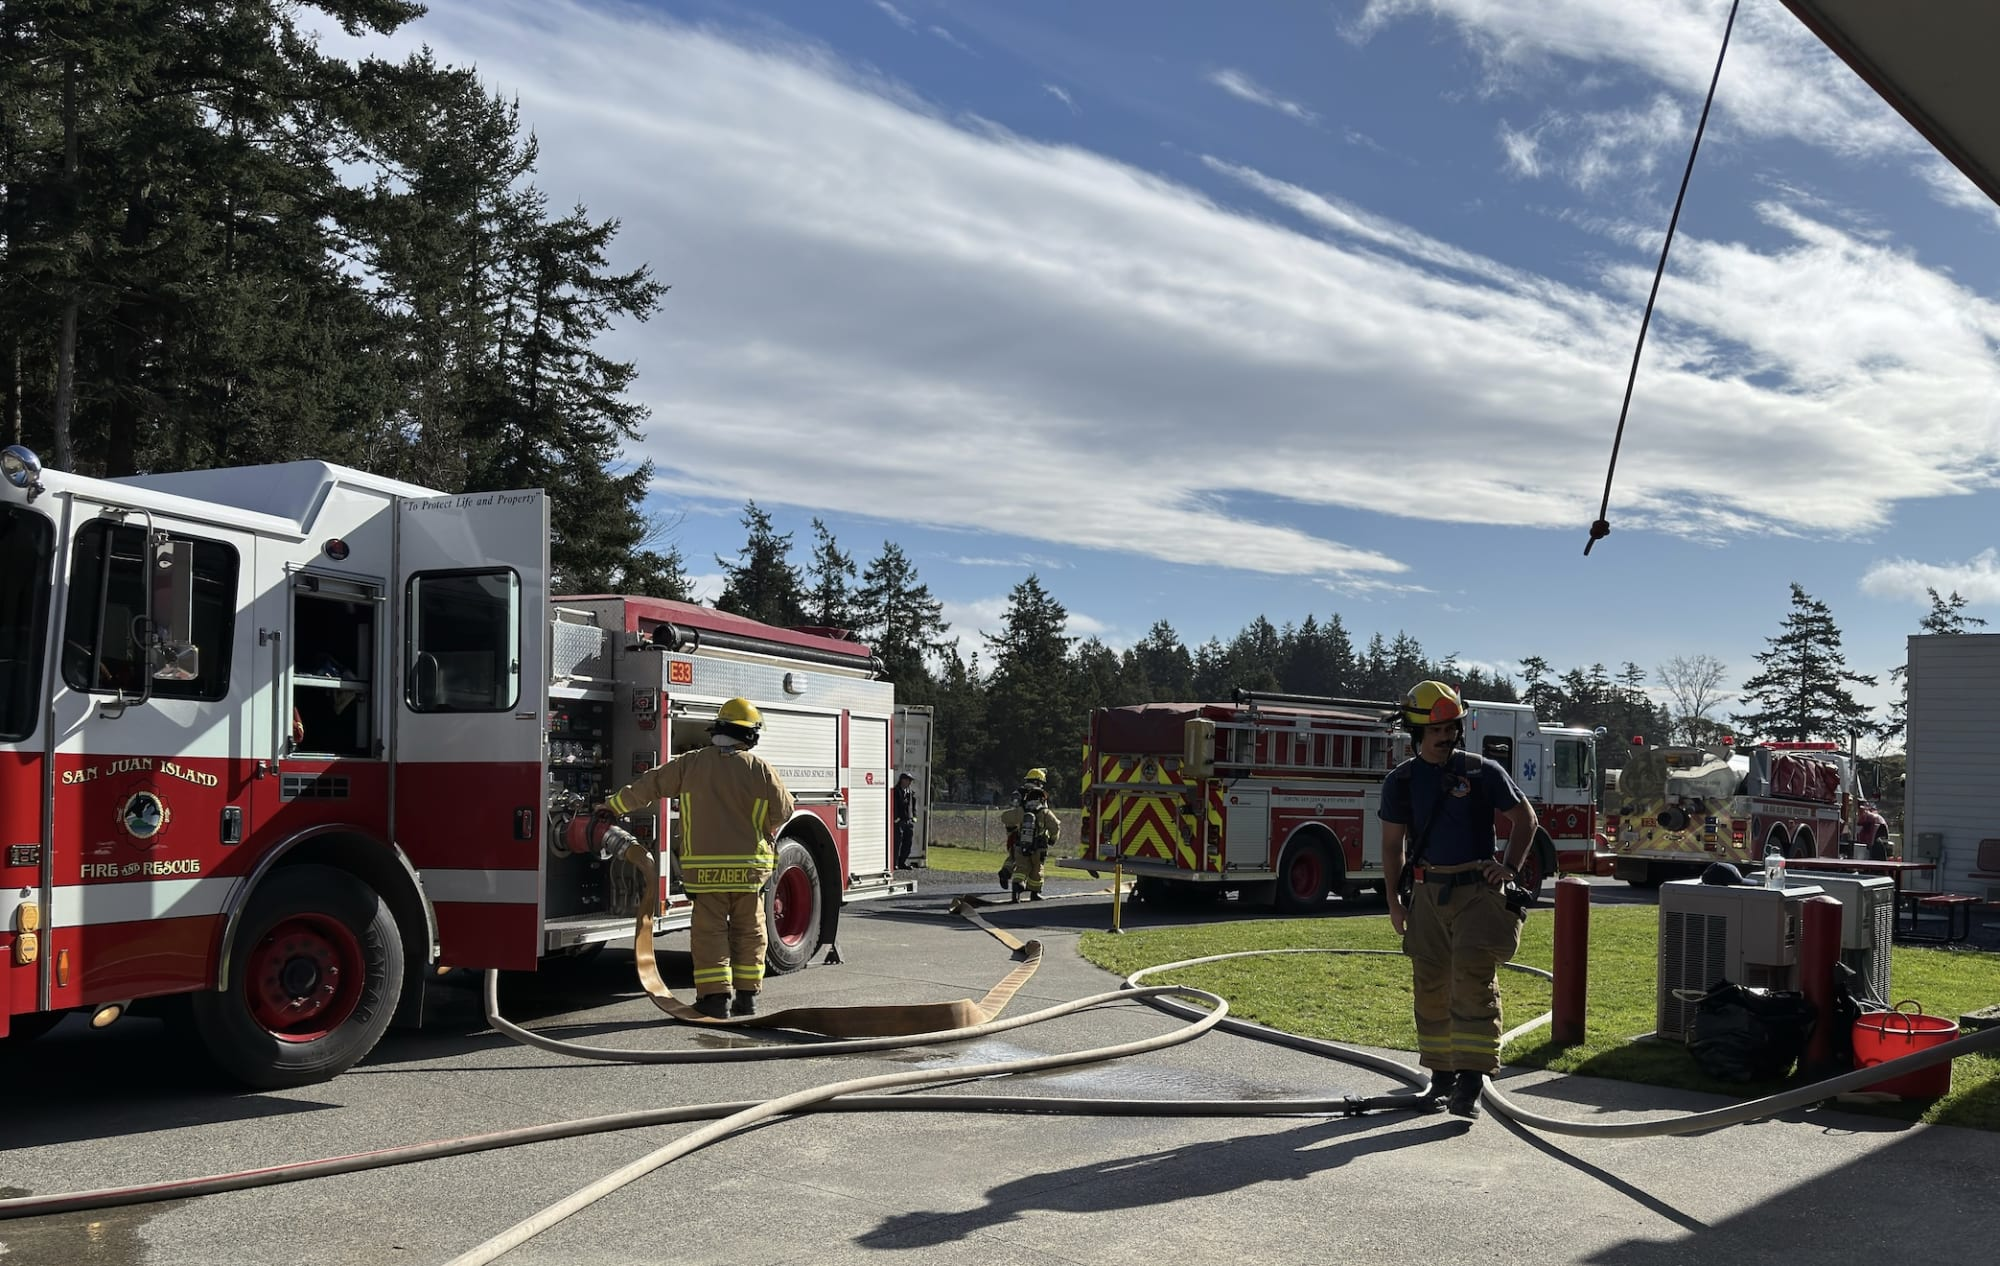
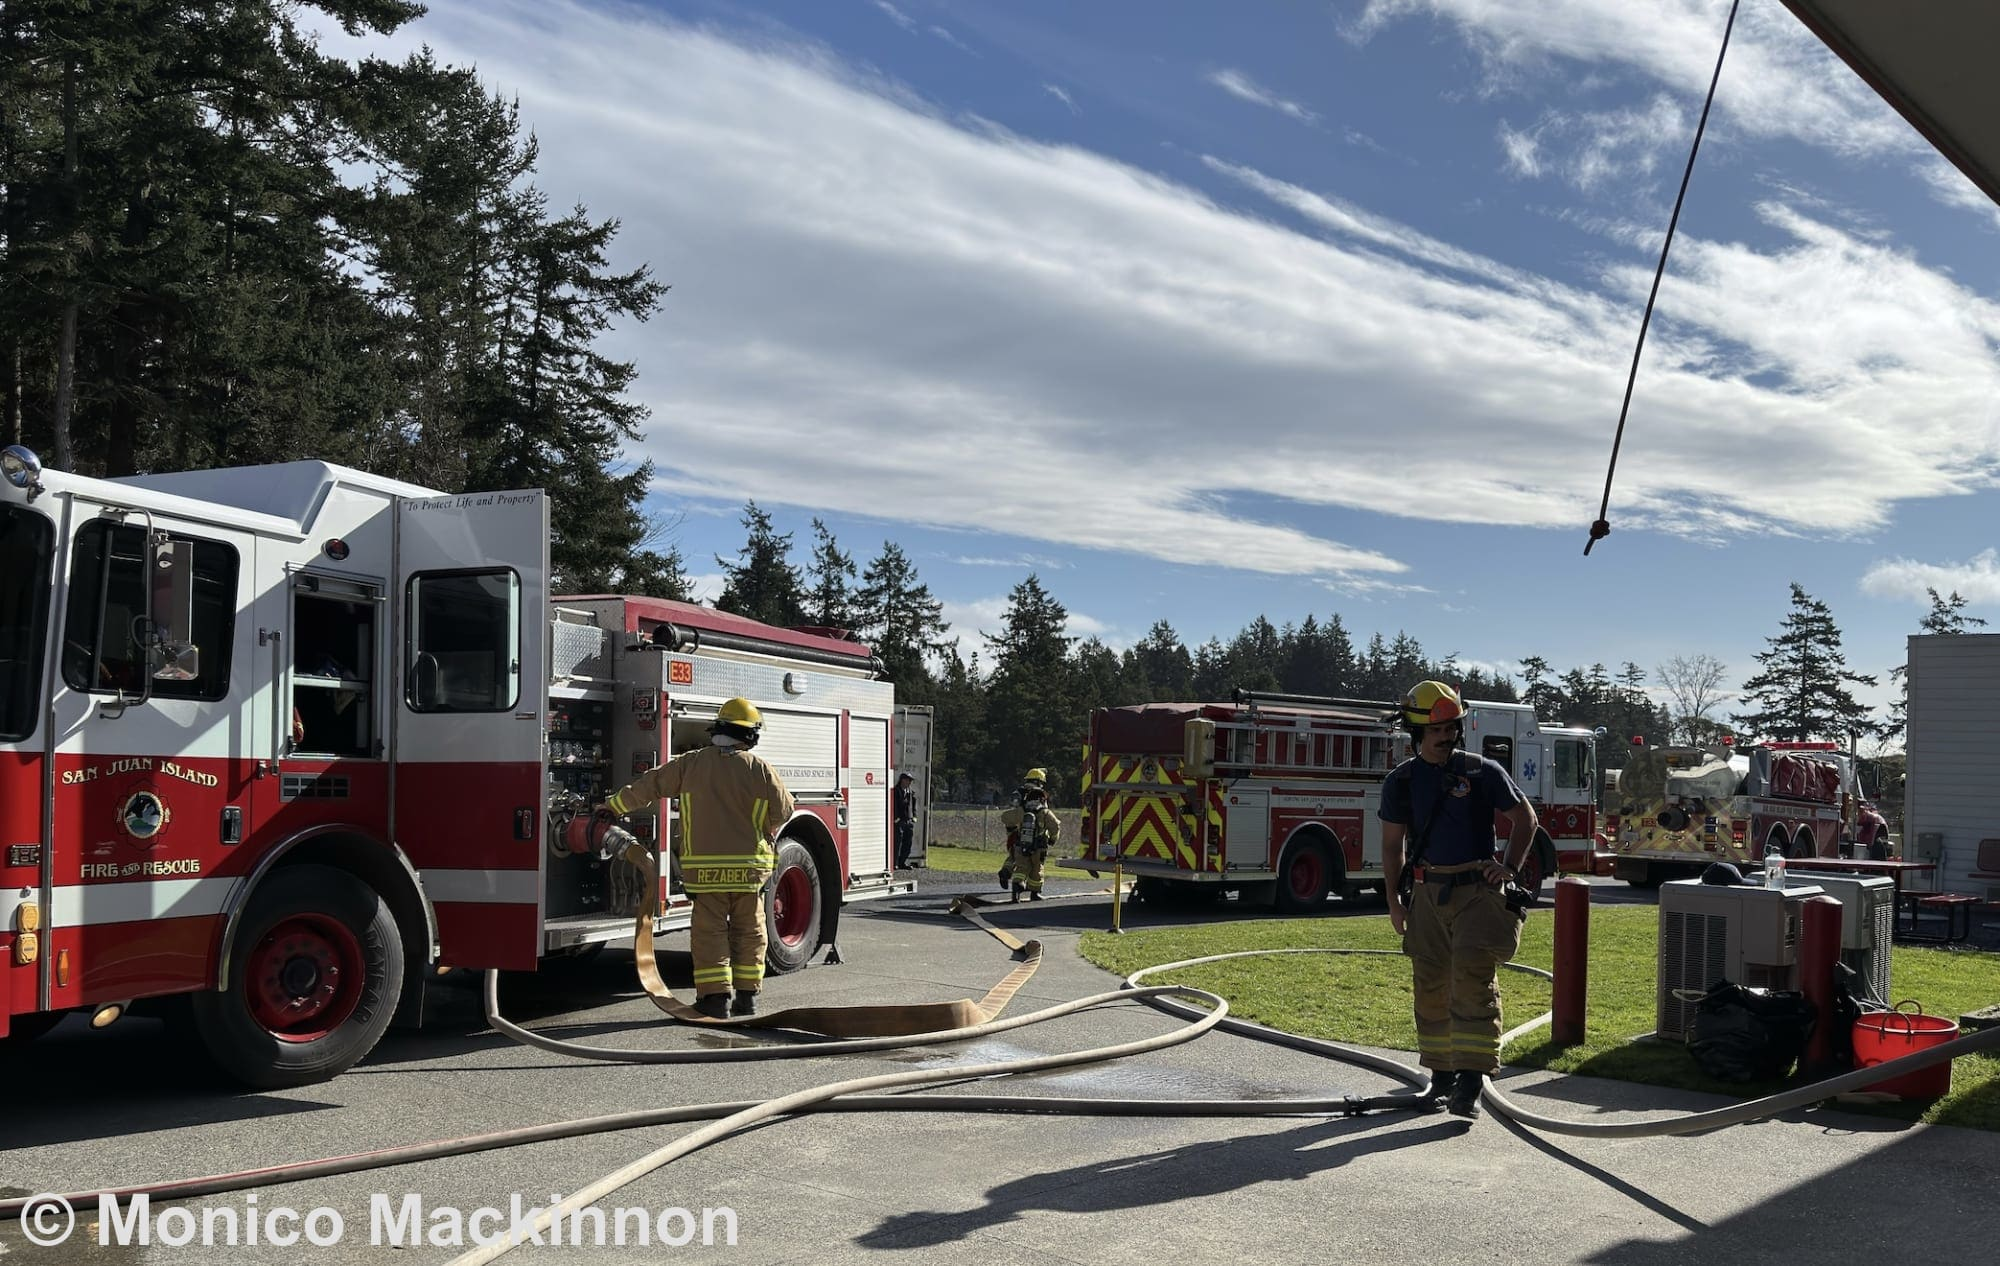
Add photo credit watermarks for Monico Mackinnon (#153)
## Summary
- Add `scripts/watermark-image.mjs` — a reusable CLI tool that bakes
text watermarks into images via Cloudinary's text overlay API
- Apply © Monico Mackinnon watermark to two gallery photos:
`training_at_s31.jpg` and `lt_salinas_photo_bombing_during_training.jpg`
- Document watermark workflow in CLAUDE.md

## Watermark script usage
```bash
node scripts/watermark-image.mjs --credit "Name" image1.jpg [image2.jpg ...]
```
Renders "© Name" in the lower-left corner (72px Arial bold, off-white).
Requires Cloudinary credentials in `.env`.

**Important:** Always run on fresh/un-watermarked images since the text
is permanently baked in.

## Test plan
- [x] Verify watermark is visible and legible on both images
- [x] Verify images display correctly in gallery page and homepage
carousel
- [x] Verify watermark script works on a new image with different credit
text

---------

Changed region(s): [[0.0, 0.9242, 0.372, 0.9858]]

diff --git a/CLAUDE.md b/CLAUDE.md
@@ -63,6 +63,13 @@ The script automatically:
 
 Typically reduces file sizes by 80-90%. Requires Cloudinary credentials in `.env` (`CLOUDINARY_API_KEY` and `CLOUDINARY_API_SECRET`).
 
+**Adding photo credits / watermarks:**
+```bash
+# Watermark images with photographer credit (baked into the file)
+node scripts/watermark-image.mjs --credit "Photographer Name" image1.jpg [image2.jpg ...]
+```
+Always watermark on fresh (un-watermarked) images — the text is baked in permanently. If you need to redo a watermark, restore the original from git first (`git show <commit>:path/to/file > path/to/file`).
+
 **Image naming conventions:**
 - Use lowercase with underscores: `brigade_water_rescue_training.jpg`
 - Use descriptive names that indicate content

diff --git a/README.md b/README.md
@@ -167,6 +167,18 @@ For manual optimization:
 node scripts/optimize-image.mjs src/assets/media/gallery/
 ```
 
+### Photo Credit Watermarks
+
+To bake a photographer credit into image files:
+
+```bash
+node scripts/watermark-image.mjs --credit "Photographer Name" image1.jpg [image2.jpg ...]
+```
+
+Renders "© Name" in the lower-left corner using Cloudinary text overlay. Requires Cloudinary credentials in `.env`.
+
+**Note:** Always run on the original un-watermarked image. The watermark is permanent — if you need to redo it, restore the original from git first.
+
 ## Personnel Sync
 
 Personnel data syncs daily from Microsoft 365 via GitHub Actions.
